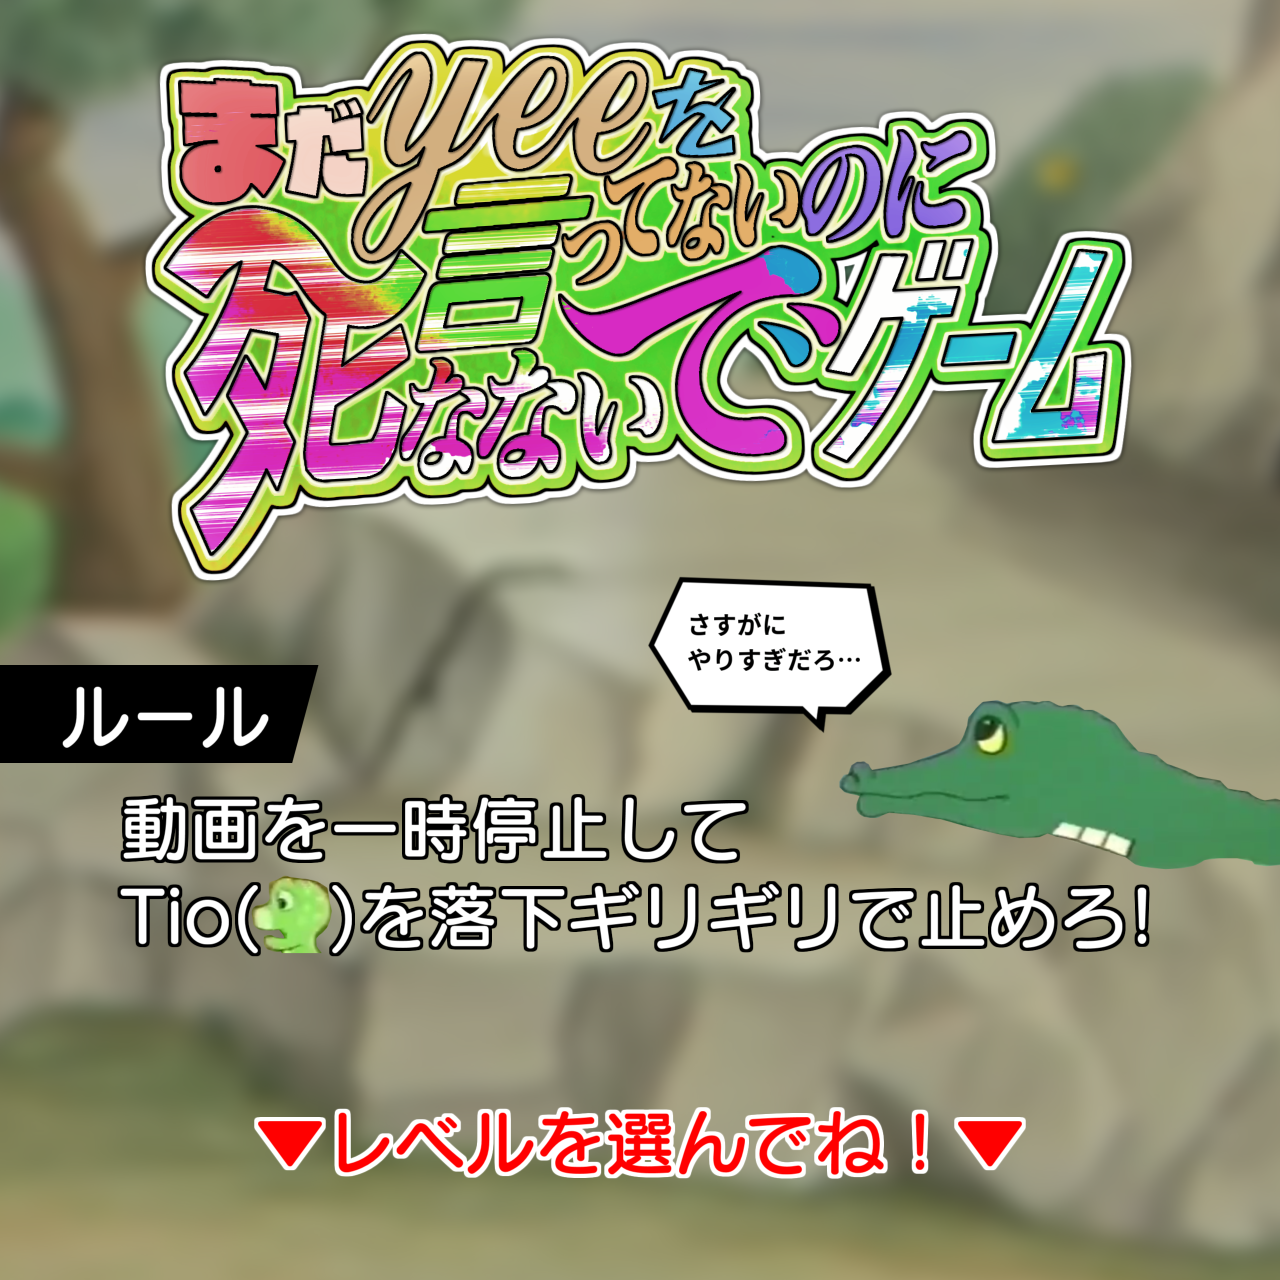
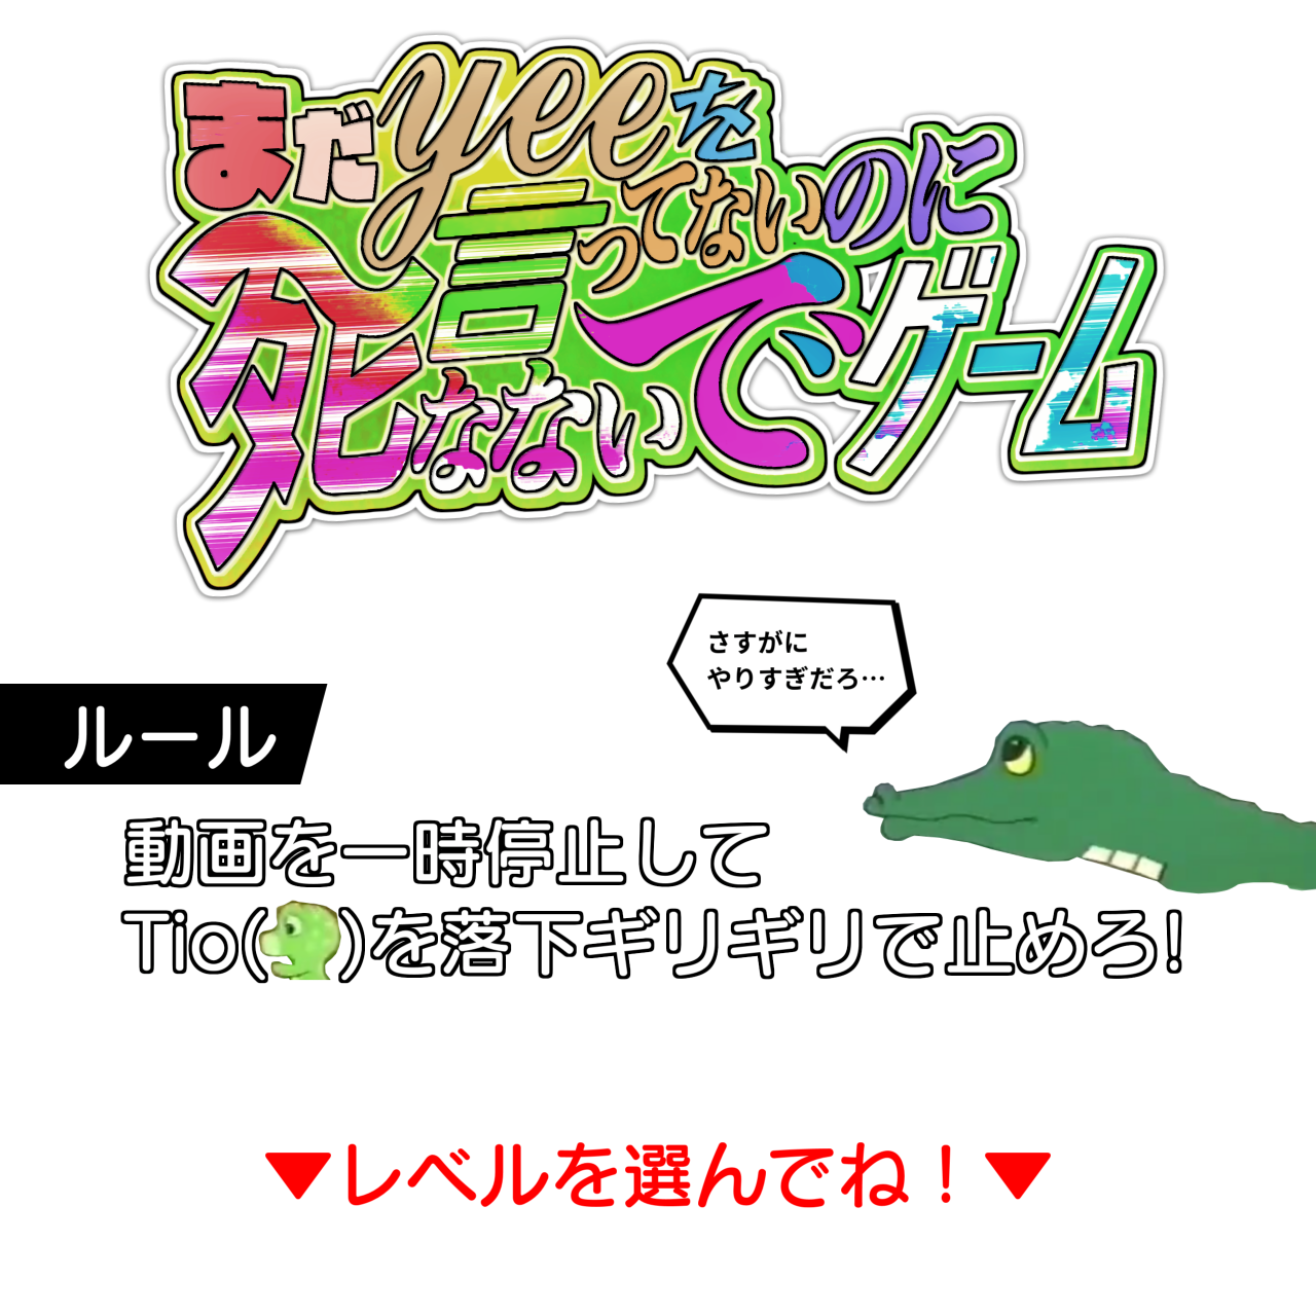
Add files via upload

diff --git a/202605/main.css b/202605/main.css
@@ -1,0 +1,11 @@
+@charset "utf-8";
+
+html {
+	font-size: 16px;
+	font-family: 'M PLUS 1p', sans-serif;
+	color: #D4332D;
+	background-image: url('back.jpg');
+	background-attachment: fixed;
+	background-size: cover;
+	background-position: center;
+}

diff --git a/202605/index.html b/202605/index.html
@@ -1,3 +1,4 @@
+<link rel="stylesheet" href="main.css">
 <img src="1.png">
 <a href="2"><img src="2.png"></a>
 <a href="3"><img src="3.png"></a>
